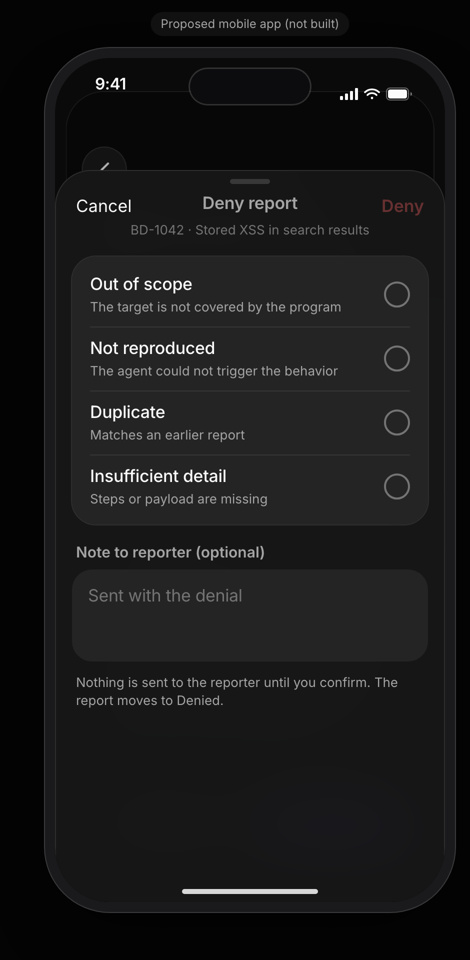
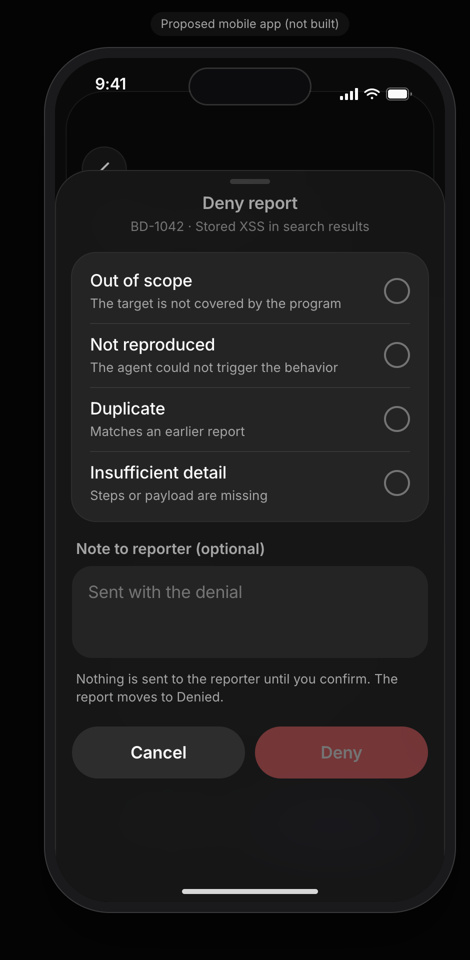
feat(mobile): Cancel and Deny as buttons at the bottom of the deny sheet, design updated to match

diff --git a/mobile/app/reports/[id]/__tests__/deny-verdict.test.tsx b/mobile/app/reports/[id]/__tests__/deny-verdict.test.tsx
@@ -101,7 +101,9 @@ describe("M13 Deny sheet", () => {
     expect(queryByLabelText("Cancel")).toBeTruthy()
     expect(queryByText("Deny report")).toBeTruthy()
     expect(queryByText("BD-1042 · Stored XSS in search results")).toBeTruthy()
-    expect(queryByLabelText("Submit denial")).toBeTruthy()
+    expect(queryByLabelText("Deny report")).toBeTruthy()
+    expect(queryByLabelText("Deny report")!.props.accessibilityRole).toBe("button")
+    expect(queryByLabelText("Cancel")!.props.accessibilityRole).toBe("button")
     for (const t of ["Out of scope", "Not reproduced", "Duplicate", "Insufficient detail", "Steps or payload are missing", "Note to reporter (optional)"]) {
       expect(queryByText(t)).toBeTruthy()
     }
@@ -118,8 +120,8 @@ describe("M13 Deny sheet", () => {
 
   it("keeps Deny disabled until a reason is selected and posts nothing without one", async () => {
     const { getByLabelText } = await render(<DenyVerdict />)
-    expect(getByLabelText("Submit denial").props.accessibilityState.disabled).toBe(true)
-    await fireEvent.press(getByLabelText("Submit denial"))
+    expect(getByLabelText("Deny report").props.accessibilityState.disabled).toBe(true)
+    await fireEvent.press(getByLabelText("Deny report"))
     expect(mockApi).not.toHaveBeenCalled()
   })
 
@@ -128,7 +130,7 @@ describe("M13 Deny sheet", () => {
     await fireEvent.press(getByText("Duplicate"))
     await fireEvent.changeText(getByPlaceholderText("Sent with the denial"), "  Same as #12  ")
     expect(posts().length).toBe(0)
-    await fireEvent.press(getByLabelText("Submit denial"))
+    await fireEvent.press(getByLabelText("Deny report"))
     await waitFor(() => expect(posts().length).toBe(1))
     expect(posts()[0][0]).toBe("/reports/BD-1042/deny")
     expect(JSON.parse(posts()[0][1].body)).toEqual({
@@ -141,7 +143,7 @@ describe("M13 Deny sheet", () => {
   it("posts the bare reason when there is no note", async () => {
     const { getByLabelText, getByText } = await render(<DenyVerdict />)
     await fireEvent.press(getByText("Out of scope"))
-    await fireEvent.press(getByLabelText("Submit denial"))
+    await fireEvent.press(getByLabelText("Deny report"))
     await waitFor(() => expect(posts().length).toBe(1))
     expect(JSON.parse(posts()[0][1].body).reason).toBe("Out of scope")
   })
@@ -154,7 +156,7 @@ describe("M13 Deny sheet", () => {
     })
     const { getByLabelText, getByText, queryByText } = await render(<DenyVerdict />)
     await fireEvent.press(getByText("Duplicate"))
-    await fireEvent.press(getByLabelText("Submit denial"))
+    await fireEvent.press(getByLabelText("Deny report"))
     await waitFor(() => expect(queryByText("This verdict changed")).toBeTruthy())
     expect(mockApi).not.toHaveBeenCalled()
   })
@@ -163,7 +165,7 @@ describe("M13 Deny sheet", () => {
     mockRefetch.mockResolvedValue({ data: null, isError: true, status: "error" })
     const { getByLabelText, getByText } = await render(<DenyVerdict />)
     await fireEvent.press(getByText("Duplicate"))
-    await fireEvent.press(getByLabelText("Submit denial"))
+    await fireEvent.press(getByLabelText("Deny report"))
     await new Promise((r) => setTimeout(r, 100))
     expect(mockApi).not.toHaveBeenCalled()
   })
@@ -172,7 +174,7 @@ describe("M13 Deny sheet", () => {
     mockApi.mockRejectedValueOnce(new ApiError(409, "content_hash_mismatch", "mismatch"))
     const { getByLabelText, getByText, queryByText } = await render(<DenyVerdict />)
     await fireEvent.press(getByText("Duplicate"))
-    await fireEvent.press(getByLabelText("Submit denial"))
+    await fireEvent.press(getByLabelText("Deny report"))
     await waitFor(() => expect(queryByText("This verdict changed")).toBeTruthy())
   })
 
@@ -180,16 +182,16 @@ describe("M13 Deny sheet", () => {
     setMockData({ ...sampleCaseFile, state: "DELIVERED", awaitingVerdictId: null } as any)
     const { getByLabelText, getByText } = await render(<DenyVerdict />)
     await fireEvent.press(getByText("Duplicate"))
-    expect(getByLabelText("Submit denial").props.accessibilityState.disabled).toBe(true)
-    await fireEvent.press(getByLabelText("Submit denial"))
+    expect(getByLabelText("Deny report").props.accessibilityState.disabled).toBe(true)
+    await fireEvent.press(getByLabelText("Deny report"))
     expect(mockApi).not.toHaveBeenCalled()
   })
 
   it("posts once on a double press and then returns to the tabs", async () => {
     const { getByLabelText, getByText } = await render(<DenyVerdict />)
     await fireEvent.press(getByText("Duplicate"))
-    fireEvent.press(getByLabelText("Submit denial"))
-    fireEvent.press(getByLabelText("Submit denial"))
+    fireEvent.press(getByLabelText("Deny report"))
+    fireEvent.press(getByLabelText("Deny report"))
     await new Promise((r) => setTimeout(r, 1500))
     expect(posts().length).toBe(1)
     expect(mockRouter.dismissAll).toHaveBeenCalled()

diff --git a/mobile/app/reports/[id]/deny-verdict.tsx b/mobile/app/reports/[id]/deny-verdict.tsx
@@ -1,6 +1,6 @@
 /**
  * M13 Deny verdict: a native form sheet over M11 (presentation set in app/_layout.tsx). Cancel and
- * Deny live in the sheet's own header. Deny posts the reason and optional note only when pressed,
+ * Deny are a button row at the bottom of the sheet. Deny posts the reason and optional note only when pressed,
  * and only if a fresh fetch still holds the verdict M11 showed (its id and hash arrive as params).
  */
 import { useState, useCallback, useRef } from "react"
@@ -91,25 +91,7 @@ function DenySheet() {
 
   return (
     <View style={styles.root}>
-      <View style={styles.header}>
-        <Pressable onPress={() => router.back()} hitSlop={10} accessibilityRole="button" accessibilityLabel="Cancel" style={styles.side}>
-          <Text style={[styles.action, { color: colors.foreground }]}>Cancel</Text>
-        </Pressable>
-        <View style={styles.center}>
-          <Text style={[styles.title, { color: colors.muted }]}>Deny report</Text>
-        </View>
-        <Pressable
-          onPress={submit}
-          disabled={!canSubmit}
-          hitSlop={10}
-          accessibilityRole="button"
-          accessibilityLabel="Submit denial"
-          accessibilityState={{ disabled: !canSubmit }}
-          style={[styles.side, styles.sideRight]}
-        >
-          <Text style={[styles.action, styles.submit, { color: colors.red }, !canSubmit && { opacity: 0.4 }]}>Deny</Text>
-        </Pressable>
-      </View>
+      <Text style={[styles.title, { color: colors.muted }]}>Deny report</Text>
       <Text style={[styles.sub, { color: colors.faint }]}>{cf ? `${cf.sourceLabel} · ${cf.title}` : ""}</Text>
 
       <View style={styles.body}>
@@ -150,6 +132,26 @@ function DenySheet() {
             <Text style={[styles.footnote, { color: colors.muted }]}>
               Nothing is sent to the reporter until you confirm. The report moves to Denied.
             </Text>
+            <View style={styles.actions}>
+              <Pressable
+                onPress={() => router.back()}
+                accessibilityRole="button"
+                accessibilityLabel="Cancel"
+                style={({ pressed }) => [styles.btn, { backgroundColor: colors.fill }, pressed && { opacity: 0.85 }]}
+              >
+                <Text style={[styles.btnText, { color: colors.foreground }]}>Cancel</Text>
+              </Pressable>
+              <Pressable
+                onPress={submit}
+                disabled={!canSubmit}
+                accessibilityRole="button"
+                accessibilityLabel="Deny report"
+                accessibilityState={{ disabled: !canSubmit }}
+                style={({ pressed }) => [styles.btn, { backgroundColor: colors.red }, !canSubmit && { opacity: 0.4 }, pressed && canSubmit && { opacity: 0.85 }]}
+              >
+                <Text style={[styles.btnText, { color: "#ffffff" }]}>Deny</Text>
+              </Pressable>
+            </View>
           </>
         )}
       </View>
@@ -167,13 +169,7 @@ export default function DenyVerdictScreen() {
 
 const styles = StyleSheet.create({
   root: {},
-  header: { flexDirection: "row", alignItems: "flex-start", paddingTop: 22, paddingHorizontal: 20 },
-  side: { width: 72, paddingTop: 2 },
-  sideRight: { alignItems: "flex-end" },
-  action: { fontFamily: font.regular, fontSize: 17, lineHeight: 22 },
-  submit: { fontFamily: font.semibold },
-  center: { flex: 1, alignItems: "center" },
-  title: { fontFamily: font.semibold, fontSize: 17, lineHeight: 20.4 },
+  title: { fontFamily: font.semibold, fontSize: 17, lineHeight: 20.4, textAlign: "center", paddingTop: 22 },
   sub: { fontFamily: font.regular, fontSize: 13, lineHeight: 17.55, marginTop: 4, marginBottom: 14, textAlign: "center", paddingHorizontal: 20 },
   body: { paddingHorizontal: 16, paddingTop: 4, paddingBottom: 40 },
   reasons: { borderRadius: 24, paddingVertical: 6, overflow: "hidden" },
@@ -187,6 +183,9 @@ const styles = StyleSheet.create({
   lbl: { fontFamily: font.semibold, fontSize: 15, lineHeight: 15, paddingTop: 20, paddingBottom: 10, paddingHorizontal: 4 },
   textarea: { height: 92, borderRadius: 20, paddingVertical: 14, paddingHorizontal: 16, fontFamily: font.regular, fontSize: 17, lineHeight: 23.8, textAlignVertical: "top" },
   footnote: { fontFamily: font.regular, fontSize: 13, lineHeight: 18.2, paddingTop: 12, paddingHorizontal: 4 },
+  actions: { flexDirection: "row", gap: 10, paddingTop: 20 },
+  btn: { flex: 1, minHeight: 52, borderRadius: 26, alignItems: "center", justifyContent: "center" },
+  btnText: { fontFamily: font.semibold, fontSize: 17, lineHeight: 17 },
   changed: { alignItems: "center", paddingVertical: 40 },
   changedTitle: { fontFamily: font.semibold, fontSize: 20, lineHeight: 24, marginBottom: 8 },
   changedBody: { fontFamily: font.regular, fontSize: 15, lineHeight: 20, textAlign: "center" },

diff --git a/docs/site/screens/m13.html b/docs/site/screens/m13.html
@@ -24,15 +24,16 @@
 </div>
 <div class="sheet" id="deny" role="dialog" aria-modal="true" aria-label="Deny report" data-open>
 <div class="grab"></div>
-<div class="shd"><button class="shd-b" type="button" data-go="m11.html" data-kind="pop">Cancel</button><div class="st">Deny report</div><button class="shd-b r" type="button" data-sheet-confirm data-haptic="warning" data-toast="Denied. Nothing was sent" data-then="m4.html" data-kind="tab" disabled>Deny</button></div>
+<div class="shd"><div class="st">Deny report</div></div>
 <div class="ss">BD-1042 · Stored XSS in search results</div>
 <div class="card list" role="radiogroup" aria-label="Reason"><label class="item"><span class="main"><span class="t">Out of scope</span><span class="s">The target is not covered by the program</span></span><input type="radio" name="r" class="rd"></label><label class="item"><span class="main"><span class="t">Not reproduced</span><span class="s">The agent could not trigger the behavior</span></span><input type="radio" name="r" class="rd"></label><label class="item"><span class="main"><span class="t">Duplicate</span><span class="s">Matches an earlier report</span></span><input type="radio" name="r" class="rd"></label><label class="item"><span class="main"><span class="t">Insufficient detail</span><span class="s">Steps or payload are missing</span></span><input type="radio" name="r" class="rd"></label></div>
 <label class="lbl" for="note-m13">Note to reporter (optional)</label>
 <textarea class="field area" id="note-m13" placeholder="Sent with the denial"></textarea>
 <p class="note" style="padding:12px 4px 0">Nothing is sent to the reporter until you confirm. The report moves to Denied.</p>
+<div class="srow"><button class="btn sec" type="button" data-go="m11.html" data-kind="pop">Cancel</button><button class="btn bad-fill" type="button" data-sheet-confirm data-haptic="warning" data-toast="Denied. Nothing was sent" data-then="m4.html" data-kind="tab" disabled>Deny</button></div>
 </div>
 </main>
-<script data-deny-enable>document.querySelectorAll('#deny .rd').forEach(r=>r.addEventListener('change',()=>{const b=document.querySelector('#deny .shd-b.r');if(b)b.disabled=false}))</script>
+<script data-deny-enable>document.querySelectorAll('#deny .rd').forEach(r=>r.addEventListener('change',()=>{const b=document.querySelector('#deny .btn.bad-fill');if(b)b.disabled=false}))</script>
 <script src="c.js"></script>
 </body>
 </html>

diff --git a/docs/site/screens/m11.html b/docs/site/screens/m11.html
@@ -24,15 +24,16 @@
 </div>
 <div class="sheet" id="deny" role="dialog" aria-modal="true" aria-label="Deny report">
 <div class="grab"></div>
-<div class="shd"><button class="shd-b" type="button" data-sheet-close>Cancel</button><div class="st">Deny report</div><button class="shd-b r" type="button" data-sheet-confirm data-haptic="warning" data-toast="Denied. Nothing was sent" data-then="m4.html" data-kind="tab" disabled>Deny</button></div>
+<div class="shd"><div class="st">Deny report</div></div>
 <div class="ss">BD-1042 · Stored XSS in search results</div>
 <div class="card list" role="radiogroup" aria-label="Reason"><label class="item"><span class="main"><span class="t">Out of scope</span><span class="s">The target is not covered by the program</span></span><input type="radio" name="r" class="rd"></label><label class="item"><span class="main"><span class="t">Not reproduced</span><span class="s">The agent could not trigger the behavior</span></span><input type="radio" name="r" class="rd"></label><label class="item"><span class="main"><span class="t">Duplicate</span><span class="s">Matches an earlier report</span></span><input type="radio" name="r" class="rd"></label><label class="item"><span class="main"><span class="t">Insufficient detail</span><span class="s">Steps or payload are missing</span></span><input type="radio" name="r" class="rd"></label></div>
 <label class="lbl" for="note-m11">Note to reporter (optional)</label>
 <textarea class="field area" id="note-m11" placeholder="Sent with the denial"></textarea>
 <p class="note" style="padding:12px 4px 0">Nothing is sent to the reporter until you confirm. The report moves to Denied.</p>
+<div class="srow"><button class="btn sec" type="button" data-sheet-close>Cancel</button><button class="btn bad-fill" type="button" data-sheet-confirm data-haptic="warning" data-toast="Denied. Nothing was sent" data-then="m4.html" data-kind="tab" disabled>Deny</button></div>
 </div>
 </main>
-<script data-deny-enable>document.querySelectorAll('#deny .rd').forEach(r=>r.addEventListener('change',()=>{const b=document.querySelector('#deny .shd-b.r');if(b)b.disabled=false}))</script>
+<script data-deny-enable>document.querySelectorAll('#deny .rd').forEach(r=>r.addEventListener('change',()=>{const b=document.querySelector('#deny .btn.bad-fill');if(b)b.disabled=false}))</script>
 <script src="c.js"></script>
 </body>
 </html>

diff --git a/docs/site/screens/c.css b/docs/site/screens/c.css
@@ -60,7 +60,7 @@
    Overlays
    .toast            injected by c.js                    data-toast="Saved"
    .sheet            bottom sheet; .fit = height by content; children .grab .sbtn.x .sbtn.ok .st .ss
-                    or a header row: .shd (.shd-b Cancel, .st title, .shd-b.r action) then .ss, no floating .sbtn
+                    or a header row: .shd (.st title only) then .ss, no floating .sbtn; actions are a bottom .srow of two .btn (.sec Cancel, .bad-fill Deny)
                      <div class="sheet" id="deny" role="dialog" aria-label="Deny report">...</div>
    .scrim            injected by c.js (tap to dismiss)
    .lp-hit .lift .menu   long press overlay, built by c.js from data-lp
@@ -347,12 +347,10 @@ svg.i{width:22px;height:22px;fill:none;stroke:currentColor;stroke-width:1.8;stro
 .sheet .ss{text-align:center;font-size:.8125rem;color:var(--faint);margin:4px 0 18px;letter-spacing:0}
 .sheet .shd{display:flex;align-items:flex-start;padding-top:22px;margin:0 4px}
 .sheet .shd .st{flex:1;padding-top:0}
-.shd-b{width:72px;padding:2px 0 0;font:400 1.0625rem/22px var(--font-sans);letter-spacing:0;color:var(--fg);text-align:left;cursor:pointer}
-.shd-b.r{text-align:right;font-weight:600;color:var(--red)}
-.shd-b:disabled{opacity:.35;cursor:default}
-.pf-android .sheet .shd{padding-top:28px}
-.pf-android .shd-b{font:500 .875rem/22px var(--font-sans);letter-spacing:.1px;color:var(--brand-soft)}
-.pf-android .shd-b.r{color:var(--red)}
+.btn.bad-fill{background:var(--red);color:#fff}
+.sheet .srow{display:flex;gap:10px;padding-top:20px}
+.sheet .srow .btn{flex:1}
+.pf-android .sheet .srow .btn{min-height:40px;border-radius:20px;font:500 .875rem/1 var(--font-sans);letter-spacing:.1px}
 .sheet .item{min-height:4rem;padding:10px 18px}
 .sheet .item .s{white-space:normal}
 .sheet .list{margin:0}
